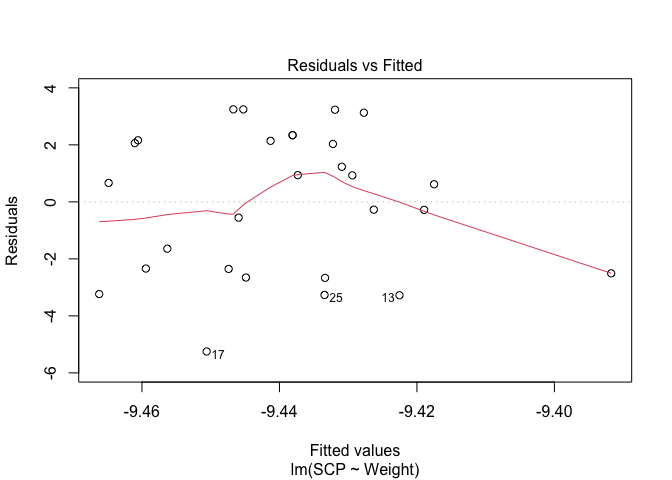
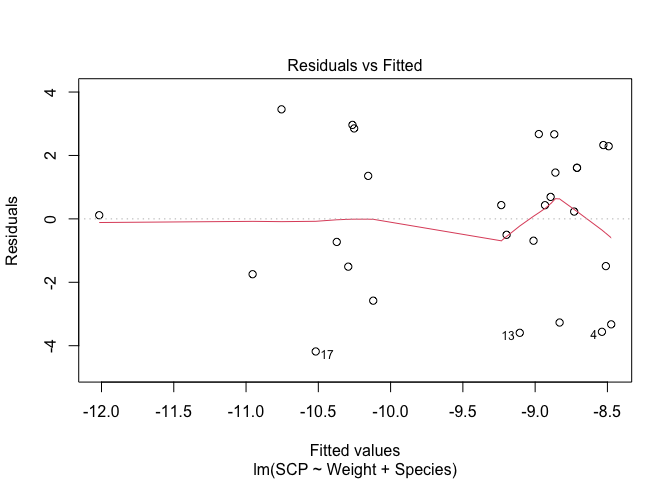
update the causal inference tutorial

diff --git a/03-causal-inference/01-causal-inference-dagitty-and-R.md b/03-causal-inference/01-causal-inference-dagitty-and-R.md
@@ -5,10 +5,11 @@ James G. Hagan
 
 ### Introduction
 
+The lecture provided the theoretical background of causal inference.
 This tutorial is meant to introduce the basics of using causal inference
-methodologies in your own research. First, we will learn how to play
-around with the dagitty web tool that will allow us to create our own
-Directed Acyclic Graphs (DAGs) (<https://dagitty.net/dags.html>).
+methodologies for use in your own research. First, we will learn how to
+play around with the dagitty web tool that will allow us to create our
+own Directed Acyclic Graphs (DAGs) (<https://dagitty.net/dags.html>).
 Second, we will learn how to transfer our DAGs into R. Third, we will
 learn how to analyse our DAG in R. By analysing our DAG in R, we will be
 able to derive testable predictions to check whether our DAG is
@@ -18,7 +19,7 @@ a given causal estimate. And, we will gain information about how to
 interpret the coefficients obtained from any given statistical model
 given the DAG.
 
-Finally, we will analyse an example dataset of seaweed fly super-cooling
+Finally, we will analyse an example dataset of seaweed fly supercooling
 points.
 
 ### 1. Building DAGs using dagitty
@@ -618,9 +619,10 @@ head(fly_dat)
     ## 6          1 male  -11.8   2363 F         1.98
 
 So, in this dataset, we have the supercooling point (SCP), the species
-(P - *C. pilipes*, F - *C. frigida*), the weight of the individual in
-grams (Weight) and the sex of the individual (Sex). We can ignore the
-‘Experiment’ and ‘SCP_ID’ columns for the purposes of this tutorial.
+(Species: P - *C. pilipes*, F - *C. frigida*), the weight of the
+individual in grams (Weight) and the sex of the individual (Sex). We can
+ignore the ‘Experiment’ and ‘SCP_ID’ columns for the purposes of this
+tutorial.
 
 In this dataset, there are only eight female individuals so we will
 remove these individuals as, there is, in my opinion not enough
@@ -703,7 +705,7 @@ weights. Okay, so let’s do this.
 If species differ in their supercooling points because they differ in
 weight, two things need to be true. First, there needs to be an effect
 of species on weight (i.e. species need to differ in their weights).
-Second, weight needs to causally effect the supercooling point. Let’s
+Second, weight needs to causally affect the supercooling point. Let’s
 test these.
 
 *Is there an effect of species on weight?*
@@ -731,6 +733,7 @@ plot(lm1)
 ```
 
 ![](01-causal-inference-dagitty-and-R_files/figure-gfm/unnamed-chunk-23-1.png)<!-- -->![](01-causal-inference-dagitty-and-R_files/figure-gfm/unnamed-chunk-23-2.png)<!-- -->![](01-causal-inference-dagitty-and-R_files/figure-gfm/unnamed-chunk-23-3.png)<!-- -->![](01-causal-inference-dagitty-and-R_files/figure-gfm/unnamed-chunk-23-4.png)<!-- -->
+
 Now that we have fit the model and checked the model assumptions, we can
 check the model results. For this, we will print the model summary:
 
@@ -790,13 +793,14 @@ models. So let’s do this.
 
 ``` r
 # fit the model
-lm2 <- lm(SCP ~ Weight, data = fly_dat)
+lm2 <- lm(SCP ~ Weight + Species, data = fly_dat)
 
 # check assumptions before interpreting the results: they look fine
 plot(lm2)
 ```
 
 ![](01-causal-inference-dagitty-and-R_files/figure-gfm/unnamed-chunk-27-1.png)<!-- -->![](01-causal-inference-dagitty-and-R_files/figure-gfm/unnamed-chunk-27-2.png)<!-- -->![](01-causal-inference-dagitty-and-R_files/figure-gfm/unnamed-chunk-27-3.png)<!-- -->![](01-causal-inference-dagitty-and-R_files/figure-gfm/unnamed-chunk-27-4.png)<!-- -->
+
 Let’s check the model results:
 
 ``` r
@@ -806,22 +810,23 @@ summary(lm2)
 
     ## 
     ## Call:
-    ## lm(formula = SCP ~ Weight, data = fly_dat)
+    ## lm(formula = SCP ~ Weight + Species, data = fly_dat)
     ## 
     ## Residuals:
     ##     Min      1Q  Median      3Q     Max 
-    ## -5.2494 -2.3915  0.6412  2.1461  3.2467 
+    ## -4.1820 -1.5667  0.3308  1.7807  3.4547 
     ## 
     ## Coefficients:
-    ##              Estimate Std. Error t value Pr(>|t|)    
-    ## (Intercept) -9.474530   1.144075  -8.281  9.2e-09 ***
-    ## Weight       0.007623   0.224592   0.034    0.973    
+    ##             Estimate Std. Error t value Pr(>|t|)    
+    ## (Intercept)  -9.9088     1.1017  -8.994  2.6e-09 ***
+    ## Weight       -0.1940     0.2342  -0.828   0.4153    
+    ## SpeciesP      2.1257     1.0455   2.033   0.0528 .  
     ## ---
     ## Signif. codes:  0 '***' 0.001 '**' 0.01 '*' 0.05 '.' 0.1 ' ' 1
     ## 
-    ## Residual standard error: 2.542 on 26 degrees of freedom
-    ## Multiple R-squared:  4.431e-05,  Adjusted R-squared:  -0.03842 
-    ## F-statistic: 0.001152 on 1 and 26 DF,  p-value: 0.9732
+    ## Residual standard error: 2.401 on 25 degrees of freedom
+    ## Multiple R-squared:  0.1419, Adjusted R-squared:  0.07329 
+    ## F-statistic: 2.068 on 2 and 25 DF,  p-value: 0.1476
 
 In this case, there is no direct causal effect of weight on supercooling
 point. So, even though the two species differ in the average weight,
@@ -841,7 +846,8 @@ dagitty::adjustmentSets(x = dag2, exposure = "SP", outcome = "SCP", effect = "di
     ## { W }
 
 To estimate this causal effect, we need to adjust for weight in our
-model. So, let’s do this.
+model. So, let’s do this (you may have noticed that this is the same
+model as lm2).
 
 ``` r
 # fit the model
